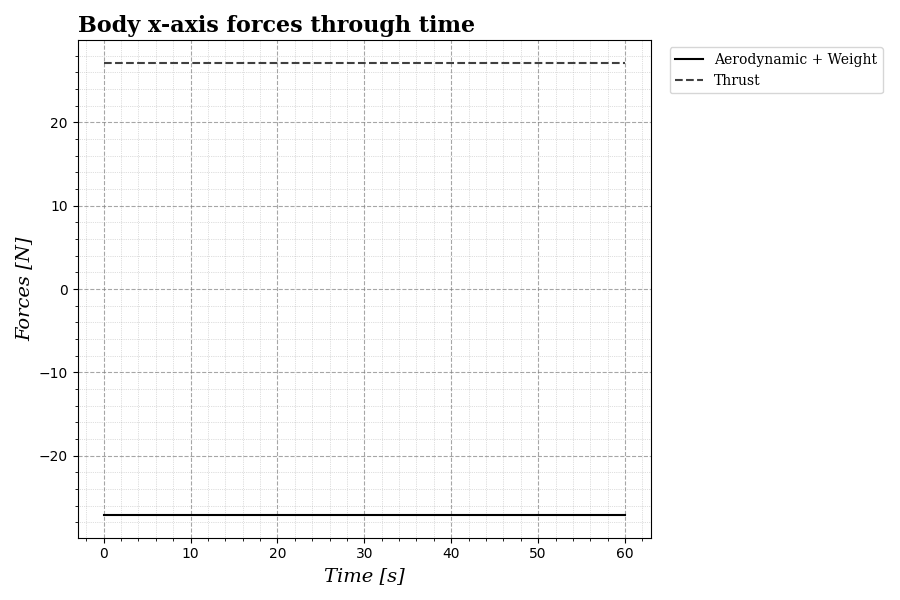
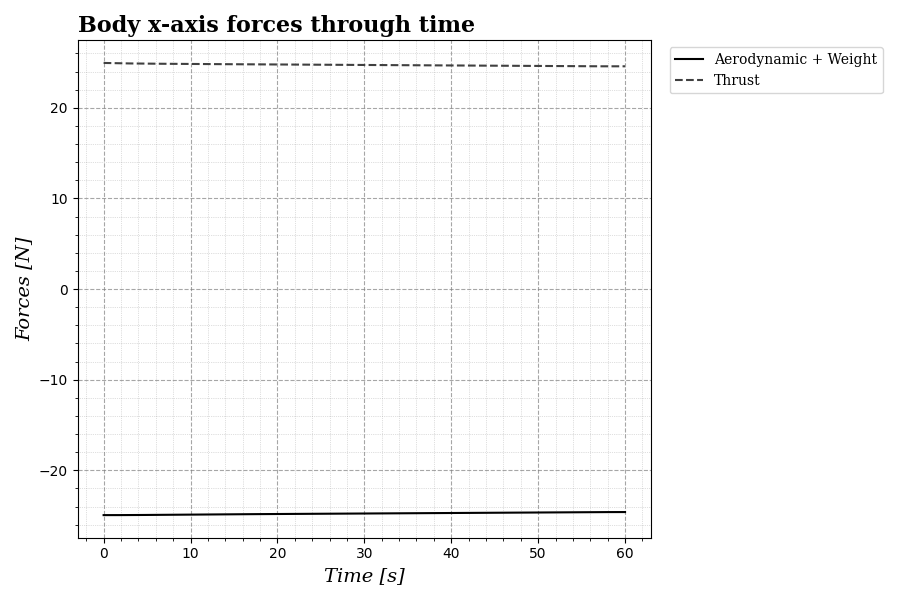
Trim included. New initial state vector included as planar function except distance.

diff --git a/code/nonlinearprogramming.py b/code/nonlinearprogramming.py
@@ -191,16 +191,16 @@ class NLP_CRUISE:
         ubg_path = []
 
         # Path constraints. Inequality constraints.
-        g_path.append(0.95*sim.Vtp - ca.sqrt(ua**2 + wa**2))
+        g_path.append(0.9*sim.Vtp - ca.sqrt(ua**2 + wa**2))
         lbg_path.append(-1e20)
         ubg_path.append(0)
-        g_path.append(ca.sqrt(ua**2 + wa**2) - 1.05*sim.Vtp)
+        g_path.append(ca.sqrt(ua**2 + wa**2) - 1.1*sim.Vtp)
         lbg_path.append(-1e20)
         ubg_path.append(0)   
 
         # TARGET ALTITUDE CONSTRAINT
-        href_l = -sim.w0[5] - 2.5
-        href_u = -sim.w0[5] + 2.5
+        href_l = -sim.w0[5] - 3.0
+        href_u = -sim.w0[5] + 3.0
         hi = -wi[5]
 
         # Path constraints. Inequality constraints.
@@ -272,12 +272,29 @@ class NLP_CRUISE:
         print(sim.w0)
         
         # Reconstruction of full initial guess.
-        w0_list = []
-        for k in range(N):
-            # Trim node us as planar function.
-            w0_list.append(w0_trim_node) 
+        # Planar function.
+        w0_ls = []
+        w0_ls.append(w0_trim_node[0])
+        w0_ls.append(w0_trim_node[1])
+        w0_ls.append(w0_trim_node[2])
+        w0_ls.append(w0_trim_node[3])
+        w0_ls.append(w0_trim_node[4])
+        w0_ls.append(w0_trim_node[5])
+        w0_ls.append(w0_trim_node[6])
+        w0_ls.append(w0_trim_node[7])
+        w0_ls.append(w0_trim_node[8])
+        for k in range(1,N):
+            w0_ls.append(w0_trim_node[0])
+            w0_ls.append(w0_trim_node[1])
+            w0_ls.append(w0_trim_node[2])
+            w0_ls.append(w0_trim_node[3])
+            w0_ls.append(w0_ls[idx+4] + w0_trim_node[0]*np.cos(w0_trim_node[3])*dT)
+            w0_ls.append(w0_trim_node[5])
+            w0_ls.append(w0_trim_node[6])
+            w0_ls.append(w0_trim_node[7])
+            w0_ls.append(w0_trim_node[8])
     
-        w0 = np.concatenate(w0_list)
+        w0 = np.concatenate(w0_ls)
 
         # DYNAMIC COSNTRAINTS HANDLING
         g_dyn = []
@@ -369,4 +386,4 @@ class NLP_CRUISE:
 
             # COST FUCNTIONAL (Minimisation of gamma, gamma dot and controls)
             J += dT/2 * (wg*(gi**2 + gj**2) / g_max**2 + wg_dot*(gi_dot**2 + gj_dot**2) / g_dot_max**2  + wh*((hi - href)**2 / href**2 + (hj - href)**2 / href**2)) + wde*ca.sumsqr((wj[8] - wi[8]) / (sim.dT*de_max)) + wdt*ca.sumsqr((wj[7] - wi[7]) / sim.dT)
-        return J 
+        return J

diff --git a/code/main_IPOPT.py b/code/main_IPOPT.py
@@ -6,6 +6,7 @@ from simulation import Sim
 from atmosphere import Atmos
 from nonlinearprogramming import NLP_CRUISE
 from plotterfunction import Plotter
+import matplotlib.pyplot as plt
 
 ###########################################################
 ##                  USER CONFIGURATION                   ##
@@ -106,6 +107,8 @@ x6 = []
 x7 = []
 u1 = []
 u2 = []
+u1_0 = []
+u2_0 = []
 
 for k in range(sim.N):
     # For each variable, the current value is retrived and 
@@ -121,6 +124,8 @@ for k in range(sim.N):
     x7.append(x[idx + 6])
     u1.append(x[idx + 7])
     u2.append(x[idx + 8])
+    u1_0.append(w0[idx + 7])
+    u2_0.append(w0[idx + 8])
 
 # Arrays conversion.
 x1 = np.array(x1)
@@ -189,7 +194,7 @@ Plotter.GENERATE_PLOT(t,np.column_stack((x4, alpha)),[r"$\theta$",r"$\alpha$"],[
 Plotter.GENERATE_PLOT(t,x7,"Mass",["Time [s]", "Mass [kg]","Aircraft's mass through time","MASS.png"],path) 
 Plotter.GENERATE_PLOT(t,np.column_stack((Fxb, Fxb_T)),["Aerodynamic + Weight", "Thrust"],["Time [s]", "Forces [N]","Body x-axis forces through time","FORCES_Xb.png"],path)
 Plotter.GENERATE_PLOT(t,np.column_stack((Fzb_A, Fzb_W)),["Aerodynamic", "Weight"],["Time [s]", "Forces [N]","Body z-axis forces through time","FORCES_Zb.png"],path)  
-Plotter.GENERATE_PLOT(t,u1,r"$\delta_T$",["Time [s]", "TPS [-]","Throttle position through time","CONTROL_dT.png"],path)
-Plotter.GENERATE_PLOT(t,u2,r"$\delta_e$",["Time [s]", "Elevator [rad]","Elevator deflection through time","CONTROL_de.png"],path)
+Plotter.GENERATE_PLOT(t,np.column_stack((u1, u1_0)),[r"$\delta_T$", r"$\delta_T init.$"],["Time [s]", "TPS [-]","Throttle position through time","CONTROL_dT.png"],path)
+Plotter.GENERATE_PLOT(t,np.column_stack((u2, u2_0)),[r"$\delta_e$", r"$\delta_e init.$"],["Time [s]", "Elevator [rad]","Elevator deflection through time","CONTROL_de.png"],path)
 Plotter.GENERATE_PLOT(x5,-x6,"Trajectory",["Horizontal distance [m]", "Altitude AGL [m]","Aircraft's trajectory","TRAJECTORY.png"],path)
 Plotter.GENERATE_PLOT(np.linspace(1,iters+1,len(obj)),np.array(obj),"Objective cost",["Iterations [-]", "Cost objective [-]", "Cost evolution. Total computation time: " f"{time} s", "COST.png"], path)
